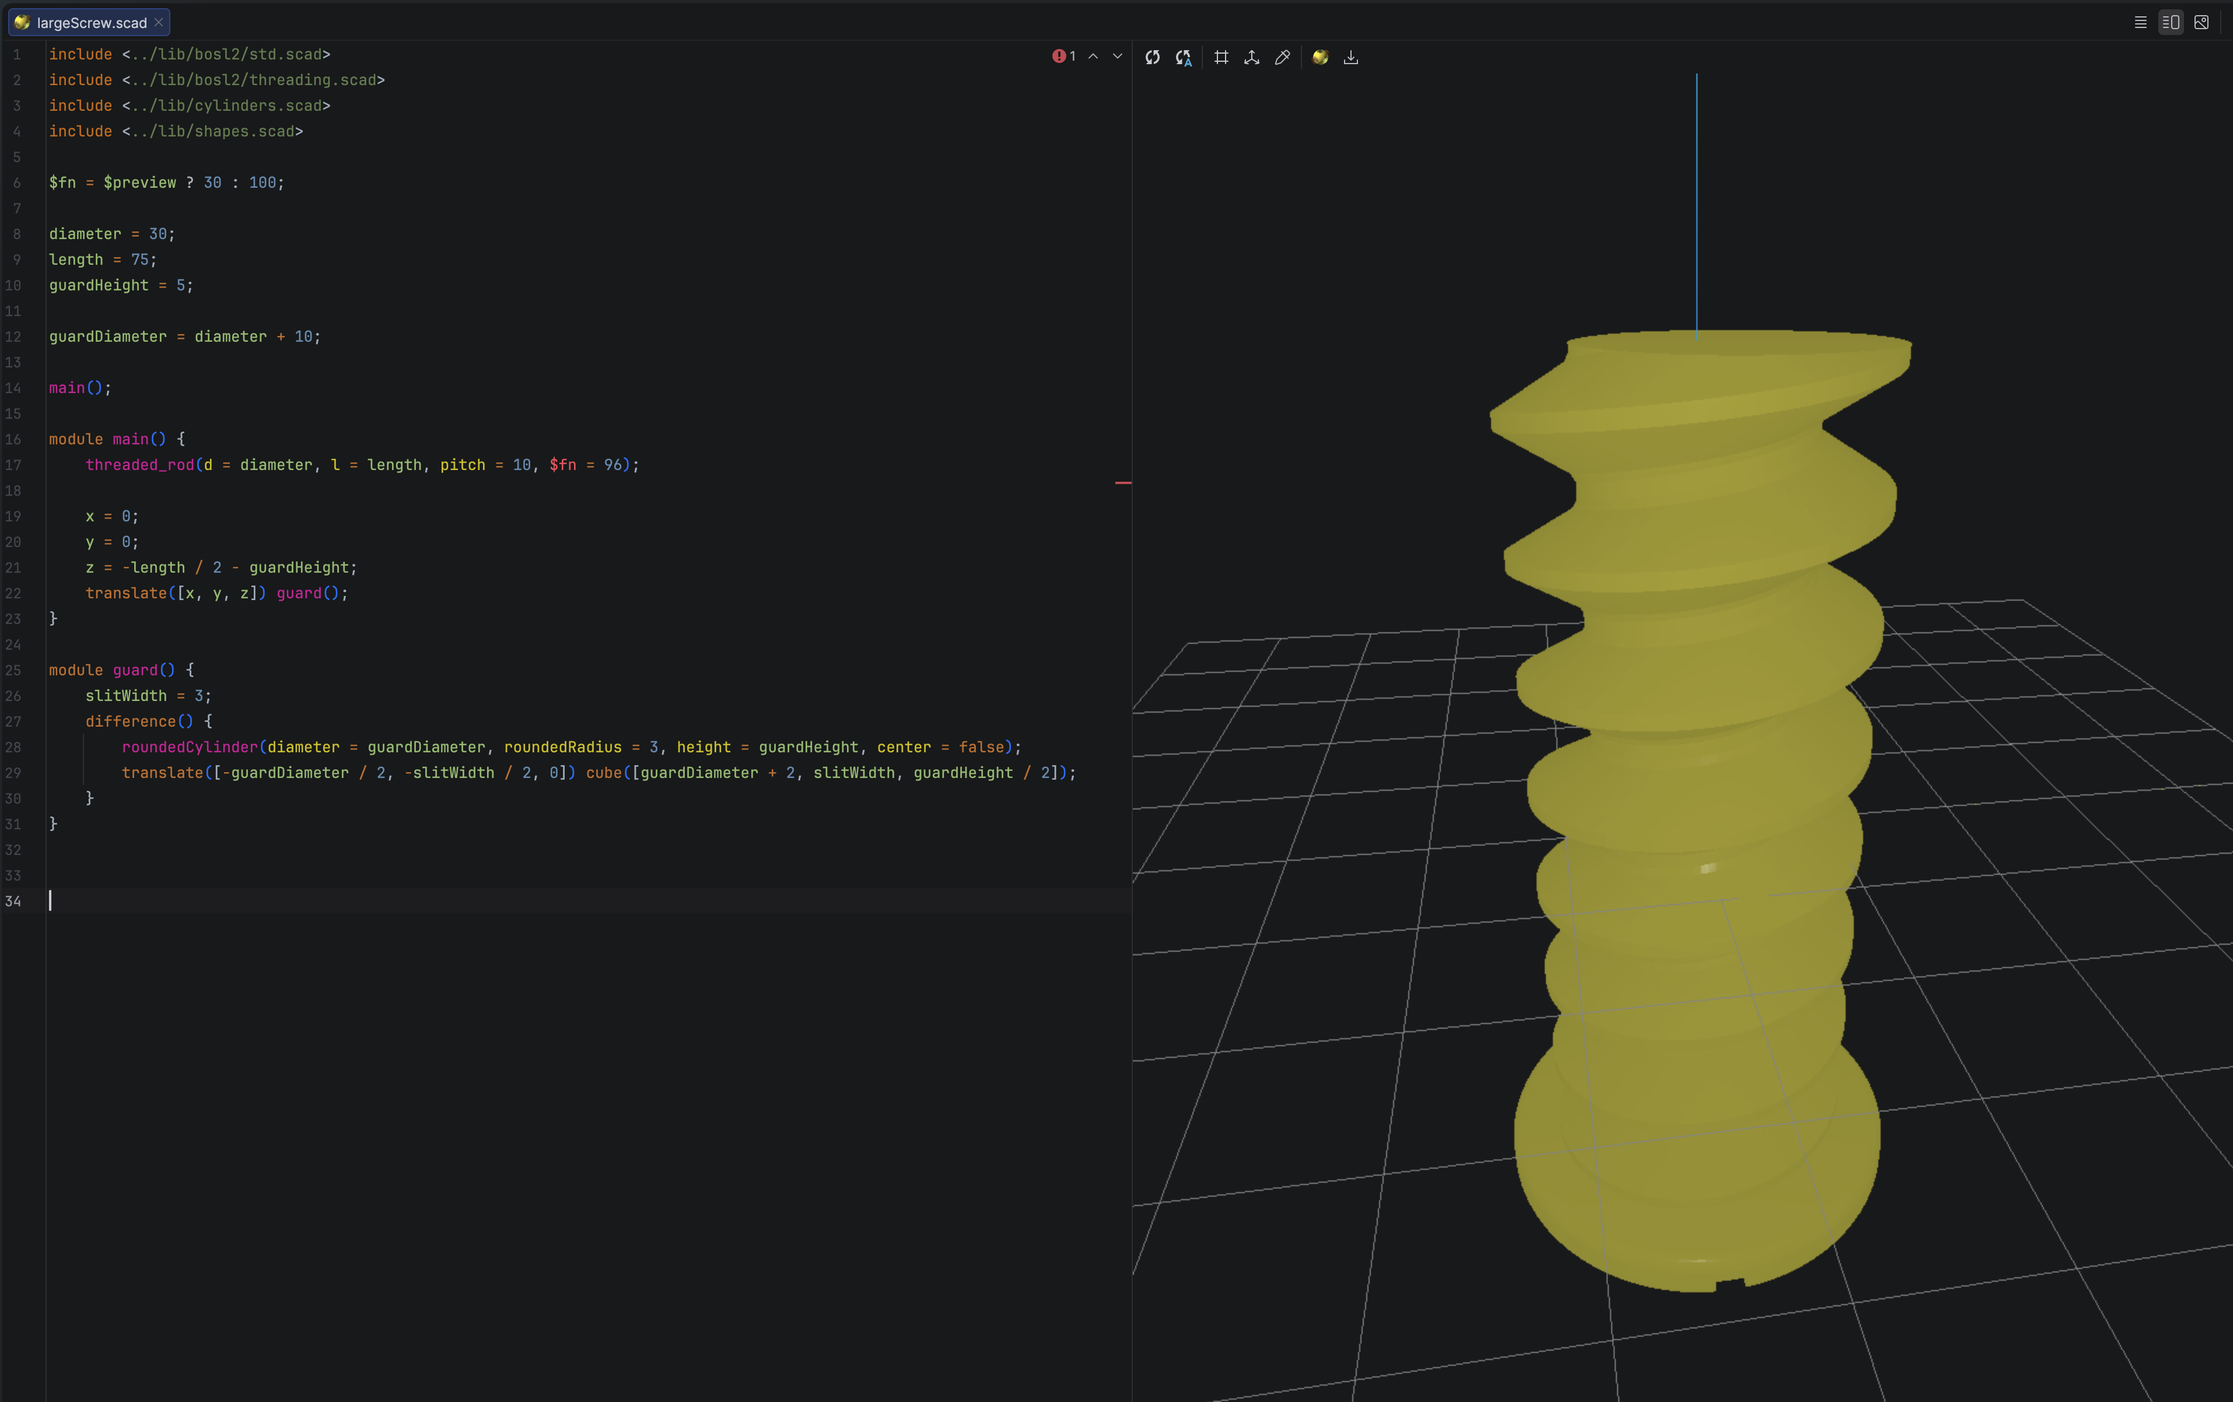
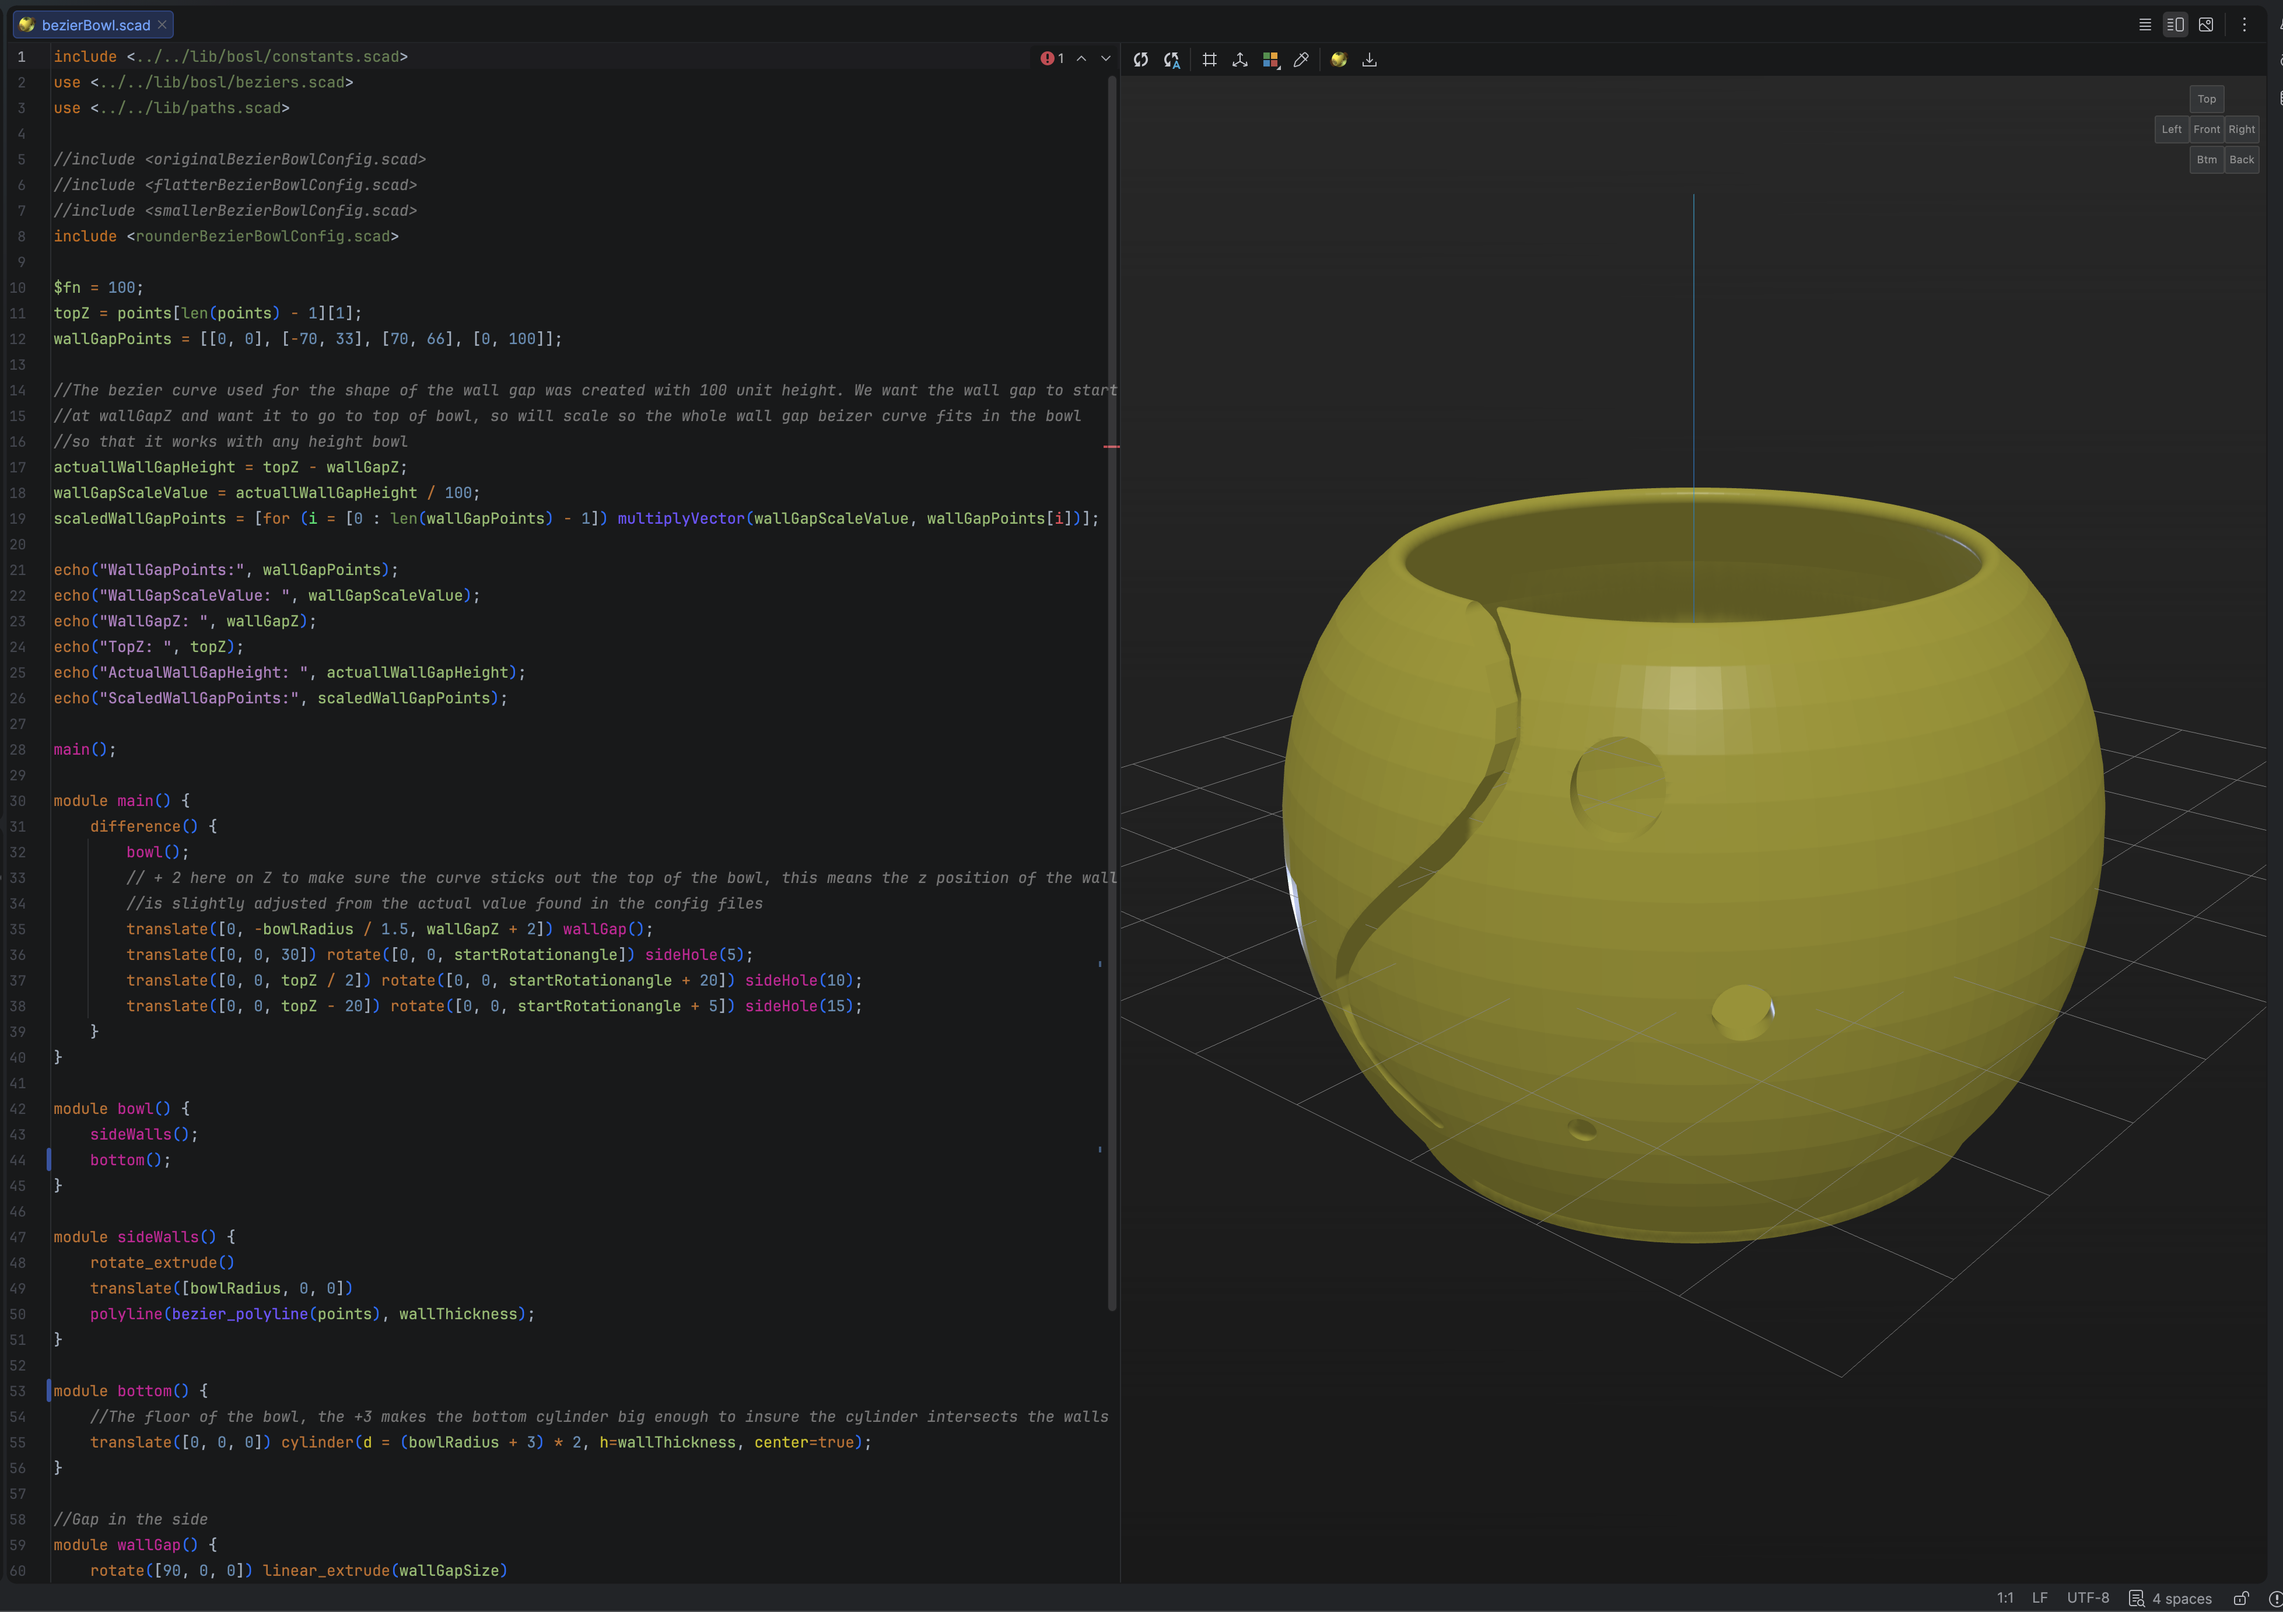
Update README preview panel screenshot to WASM bowl example.
Replace the outdated largeScrew preview image with the current Clear Sky WASM preview.

diff --git a/README.md b/README.md
@@ -101,7 +101,7 @@ You can add shortcuts in *Settings* -> *Keymap* -> *Plugins* -> *OpenSCAD Suppor
 
 The split preview editor lets you edit `.scad` files and see the result in the IDE without launching native OpenSCAD. Rendering runs **openscad-wasm** (Manifold backend) in a JCEF Web Worker; project `use` / `include` dependencies are bundled into a virtual filesystem for the WASM runtime.
 
-![Split preview editor with semantic highlighting for modules, functions, variables, and parameters](docs/screenshots/split-preview-semantic-highlighting.png)
+![Split preview editor with WASM 3D preview showing a bowl model on Clear Sky background](docs/screenshots/split-preview-semantic-highlighting.png)
 
 Preview output is an STL mesh, so some information (such as colors) is lost.
 
